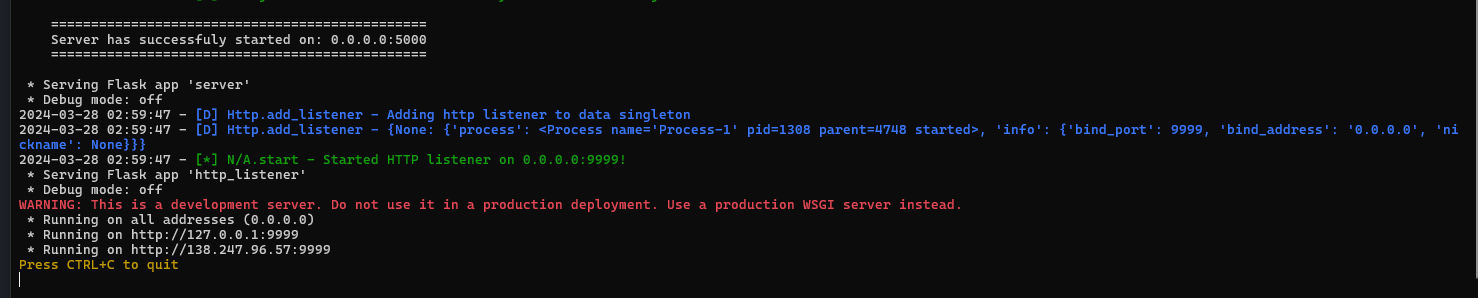
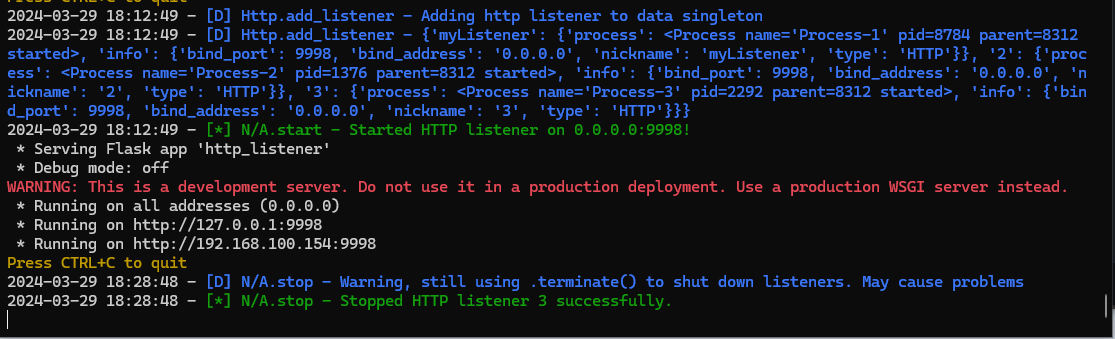
Listener Docs

Changed region(s): [[0.0, 0.0, 1.0, 1.0]]

diff --git a/Server/PluginEngine/ControlPlugins/SimpleC2Plugin/SimpleC2Plugin.py b/Server/PluginEngine/ControlPlugins/SimpleC2Plugin/SimpleC2Plugin.py
@@ -22,6 +22,7 @@ from werkzeug.exceptions import BadRequest
 from DataEngine.Neo4jHandler import Neo4jConnection
 from Utils.Logger import LoggingSingleton
 from PluginEngine.ControlPlugins.SimpleC2Plugin.Utils.ListenerHandler import HttpListenerHandler
+from Utils.DataSingleton import Data
 ################################################
 # Info class
 ################################################
@@ -61,6 +62,7 @@ def role_required(required_role):
 class SimpleC2():
     def __init__(self, app):
         self.logger = LoggingSingleton.get_logger()
+        self.data = Data()
         self.app = app
         self.neo4j = None
         self.connect_to_neo4j()
@@ -106,6 +108,7 @@ class SimpleC2():
         self.app.route(f'/api/{Info.endpoint}/general/everything', methods = ["GET"])(self.neo4j_retrieve_everything)
 
         ## listeners
+        self.app.route(f'/api/{Info.endpoint}/listener', methods = ["GET"])(self.listener_list)
         self.app.route(f'/api/{Info.endpoint}/listener/http/start', methods = ["POST"])(self.http_listener_start)
         self.app.route(f'/api/{Info.endpoint}/listener/http/stop', methods = ["POST"])(self.http_listener_stop)
 
@@ -151,6 +154,65 @@ class SimpleC2():
 ################################################
 # Listener Management- Gonna have to redo these
 ################################################
+
+
+## General
+    def listener_list(self):
+        '''
+            Lists all listeners in JSON form
+
+            JSON:
+
+            nickname {
+                type: HTTP,
+                nickname: nickname
+                address: 0.0.0.0 #-> ext addr? - or list of addresses it's running on
+                pub_address: pub_ip
+                port: 9999
+                #strt_time: unix_timestamp #(LATER)
+
+            }
+
+
+        '''
+
+        try:
+            listeners_dict = {}
+
+            #2024-03-29 17:24:19 - [!] SimpleC2.listener_list - 'str' object has no attribute 'get' 
+            # something wrong here. not sure what.
+
+            # Get HTTP Listeners, add to dict
+            http_listeners = self.data.Listeners.HTTP.get_listeners()
+
+            for nickname in http_listeners:
+                # once you have nickanes, get the data for each one
+                http_listener = self.data.Listeners.HTTP.get_listener_by_nickname(nickname=nickname)
+                # Use .get() for safer access
+                info = http_listener.get("info", {})
+                
+                # Now safely attempt to get the 'nickname', 'bind_address', and 'bind_port' using .get()
+                nickname = info.get("nickname")
+                bind_address = info.get("bind_address", "Unknown address")  # Provide default value
+                bind_port = info.get("bind_port", "Unknown port")  # Provide default value
+                listener_type = info.get("type", "Unknown Type")  # Provide default value
+
+                if nickname:  # Ensure nickname exists before adding to the dictionary
+                    listeners_dict[nickname] = {
+                        "bind_address": bind_address,
+                        "bind_port": bind_port,
+                        "type":listener_type
+                    }
+
+            # Assuming jsonify and api_response are correctly defined elsewhere
+            #listeners_json = jsonify(listeners_dict)
+            return api_response(status_code=200, data=listeners_dict)
+
+        except BadRequest:
+            return api_response(status_code=400)
+        except Exception as e:
+            self.logger.warning(e)
+            return api_response(status_code=500)
 
 ## HTTP Listener
     def http_listener_start(self):

diff --git a/Server/Utils/DataSingleton.py b/Server/Utils/DataSingleton.py
@@ -121,6 +121,15 @@ class Http:
             self.logger.warning(f"Listener with nickname {nickname} not found.")
             return None
 
+    def get_listeners(self):
+        """
+        Quick and dirty getter. 
+
+        Returns:
+            dict: The dictionary of HTTP listeners
+        """
+        return self.http_listeners
+
 '''
         listener_dict = {
             "class_object":"classobjectofspawnedlistener",

diff --git a/Server/PluginEngine/ControlPlugins/SimpleC2Plugin/Utils/ListenerHandler.py b/Server/PluginEngine/ControlPlugins/SimpleC2Plugin/Utils/ListenerHandler.py
@@ -29,7 +29,8 @@ class HttpListenerHandler:
             info = {
                 "bind_port": bind_port,
                 "bind_address": bind_address,
-                "nickname": nickname
+                "nickname": nickname,
+                "type":"HTTP"
             }
             data_singleton.Listeners.HTTP.add_listener(process=p, info=info)
 

diff --git a/Documentation/docs/docs/Technical Docs/Server/Plugins/Control Plugins/SimpleC2/RoutesAndMethods.md b/Documentation/docs/docs/Technical Docs/Server/Plugins/Control Plugins/SimpleC2/RoutesAndMethods.md
@@ -1,0 +1,107 @@
+# SimpleC2 Plugin API Endpoints and Parameters    - 
+
+## Overview
+This documentation details the API endpoints within the SimpleC2 plugin, mapping functions to their corresponding Flask routes and describing the expected HTTP request methods and parameters. The SimpleC2 plugin is designed for command and control (C2) operations, including network and client management, and listener configurations.
+
+## Network Management Endpoints
+
+### Add Network
+- **Function**: `neo4j_add_network(self)`
+- **HTTP Method**: POST
+- **Route**: `/api/simplec2/network/add`
+- **Request Parameters**:
+    - `cidr`: The CIDR notation for the network being added.
+    - `nickname`: An optional nickname for the network.
+
+### Remove Network
+- **Function**: `neo4j_remove_network(self)`
+- **HTTP Method**: POST
+- **Route**: `/api/simplec2/network/remove`
+- **Request Parameters**:
+    - `nickname`: The nickname of the network to remove.
+
+### Get Network Properties
+- **Function**: `neo4j_get_network_properties(self)`
+- **HTTP Method**: POST
+- **Route**: `/api/simplec2/network/properties`
+- **Request Parameters**:
+    - `nickname`: The nickname of the network whose properties are being requested.
+
+### Add Network Properties
+- **Function**: `neo4j_add_network_properties(self)`
+- **HTTP Method**: POST
+- **Route**: `/api/simplec2/network/addproperties`
+- **Request Parameters**:
+    - `nickname`: The nickname of the network.
+    - `property`: The name of the property to add or update.
+    - `value`: The value of the property.
+
+### Retrieve Clients in Network
+- **Function**: `neo4j_retrieve_clients_in_network(self)`
+- **HTTP Method**: POST
+- **Route**: `/api/simplec2/network/clients`
+- **Request Parameters**:
+    - `nickname`: The nickname of the network for which clients are being requested.
+
+### Retrieve All Networks
+- **Function**: `neo4j_retrieve_all_networks(self)`
+- **HTTP Method**: GET
+- **Route**: `/api/simplec2/network/networks`
+- **Request Parameters**: None
+
+## Client Management Endpoints
+
+### Add Client
+- **Function**: `neo4j_add_client(self)`
+- **HTTP Method**: POST
+- **Route**: `/api/simplec2/client/add`
+- **Request Parameters**:
+    - `nickname`: A unique nickname for the client being added.
+
+### Remove Client
+- **Function**: `neo4j_remove_client(self)`
+- **HTTP Method**: POST
+- **Route**: `/api/simplec2/client/remove`
+- **Request Parameters**:
+    - `nickname`: The nickname of the client to remove.
+
+### Get Client Properties
+- **Function**: `neo4j_get_client_properties(self)`
+- **HTTP Method**: POST
+- **Route**: `/api/simplec2/client/properties`
+- **Request Parameters**:
+    - `nickname`: The nickname of the client whose properties are being requested.
+
+### Add Client Properties
+- **Function**: `neo4j_add_client_properties(self)`
+- **HTTP Method**: POST
+- **Route**: `/api/simplec2/client/addproperties`
+- **Request Parameters**:
+    - `nickname`: The nickname of the client.
+    - `property`: The name of the property to add or update.
+    - `value`: The value of the property.
+
+## Listener Management Endpoints
+
+### Listeners List
+- **Function**: `listener_list(self)`
+- **HTTP Method**: GET
+- **Route**: `/api/simplec2/listener`
+- **Request Parameters**: None
+
+### Start HTTP Listener
+- **Function**: `http_listener_start(self)`
+- **HTTP Method**: POST
+- **Route**: `/api/simplec2/listener/http/start`
+- **Request Parameters**:
+    - `port`: The port on which the HTTP listener should listen.
+    - `address`: The address on which the HTTP listener should bind.
+    - `nickname`: A unique nickname for the listener.
+
+### Stop HTTP Listener
+- **Function**: `http_listener_stop(self)`
+- **HTTP Method**: POST
+- **Route**: `/api/simplec2/listener/http/stop`
+- **Request Parameters**:
+    - `nickname`: The nickname of the HTTP listener to stop.
+

diff --git a/Documentation/docs/docs/Technical Docs/Server/Plugins/Control Plugins/SimpleC2/SimpleC2.md b/Documentation/docs/docs/Technical Docs/Server/Plugins/Control Plugins/SimpleC2/SimpleC2.md
@@ -1,0 +1,57 @@
+NOT REVIEWED
+
+# SimpleC2 Plugin Documentation
+
+## Overview
+The SimpleC2 plugin is a backend component designed to manage network entities, client communications, and listener configurations for a command and control (C2) framework. It leverages Flask for routing API calls and a Neo4j graph database for data storage.
+
+## Imports and Dependencies
+
+- **Flask**: For creating and managing web routes.
+- **Flask-JWT-Extended**: For handling JWT tokens for authentication.
+- **Logging**: For logging messages and errors.
+- **Inspect**: For retrieving current function names for logging purposes.
+- **Requests**: For making HTTP requests.
+- **JSON**: For parsing and generating JSON data.
+- **Custom Modules**: Including `DataEngine`, `Utils`, and `PluginEngine` for handling specific business logic related to the C2 framework.
+
+## Info Class
+
+Holds metadata about the plugin such as `name`, `author`, `endpoint`, `classname`, and `plugin_type`.
+
+## RoleCheck Decorator
+
+A decorator function for route handlers to ensure that the current user has the required role to access the route.
+
+## SimpleC2 Class
+
+The main class that encapsulates the plugin's functionality. It initializes with Flask app object, setting up logging, data handling, and Neo4j database connection. It includes methods for registering routes, managing listeners, and handling Neo4j database interactions.
+
+### Main Methods
+
+- `main()`: Sets up the plugin and registers web routes.
+- `register_routes()`: Defines all the web routes and their handlers.
+- `connect_to_neo4j()`: Initializes the connection to the Neo4j database.
+
+### Listener Management
+
+Methods for starting and stopping HTTP listeners, listing current listeners, and managing listener configurations.
+
+### API Handlers
+
+Includes placeholders and implementations for handling API calls related to the dashboard, client commands, network and client management in Neo4j database.
+
+## Neo4j Database Interactions
+
+Methods for adding, removing, and updating networks and clients in the Neo4j database, as well as retrieving properties and relationships.
+
+## Example API Routes
+ Include link to routes
+
+- Network Management: Add, remove, update, and get properties of networks.
+- Client Management: Add, remove, update, and get properties of clients.
+- General: Retrieve all networks, clients, or everything from the database.
+
+## Remarks
+
+This document provides a high-level overview of the SimpleC2 plugin's capabilities, focusing on its role within a C2 framework, handling of HTTP listeners, and interactions with a Neo4j graph database.

diff --git a/Documentation/docs/docs/Technical Docs/Server/Plugins/Control Plugins/SimpleC2/Utils/ListenerHandler.md b/Documentation/docs/docs/Technical Docs/Server/Plugins/Control Plugins/SimpleC2/Utils/ListenerHandler.md
@@ -1,5 +1,5 @@
 
-# NOT COMPLETE/IN DEV
+ NOT COMPLETE/IN DEV
 
 # HttpListenerHandler Documentation
 
@@ -35,18 +35,26 @@ Starts an HTTP listener with the specified bind address, port, and nickname, and
 - **Usage**:
   This method is a wrapper around the listener's native startup procedures, facilitating the process with additional checks and the integration with the Data Singleton for better management and oversight.
 
-### `stop(bind_address=None, bind_port=None)`
+### `stop(nickname=None)`
 
-Stops an HTTP listener identified by its bind address and port. This method is a placeholder in the current documentation, indicating future functionality for stopping listeners.
+Stops an HTTP listener based on its nickname.
 
 - **Parameters**:
-    - `bind_address`: The IP address on which the listener is bound. Default is `None`.
-    - `bind_port`: The port number on which the listener is bound. Default is `None`.
+    - `nickname` (str): The unique identifier of the listener to stop. Defaults to `None`.
 
 - **Functionality**:
-    1. Checks if a listener with the specified address and port exists within the Data Singleton.
-    2. If found, initiates the shutdown process for the listener and removes it from the Data Singleton.
-    3. Logs the event of stopping the listener.
+    1. Retrieves the listener's information from the Data Singleton using the provided nickname.
+    2. Terminates the listener's process using `.terminate()` method, effectively stopping the listener.
+    3. Waits for the process to terminate using `.join()`, ensuring it has been stopped cleanly.
+    4. Logs the successful shutdown of the listener to the application logs.
+
+- **Remarks**:
+    - The method uses `.terminate()` for stopping listeners, which is effective but may not allow for graceful shutdown in all cases. Future improvements could include a more graceful shutdown mechanism.
+
+- **Example Usage**:
+    ```python
+    HttpListenerHandler.stop(nickname='MainListener')
+    ```
 
 
 ## Example Usage
@@ -58,6 +66,6 @@ HttpListenerHandler.start(bind_address='127.0.0.1', bind_port=8080, nickname='Ma
 ```
 
 
-On a successful start, the following should show up in the console:
+On a successful start/stop, the following should show up in the console:
 
 ![](../../../../../../Images/Server/Plugins/SimpleC2/http_listener_successful_start.png)
